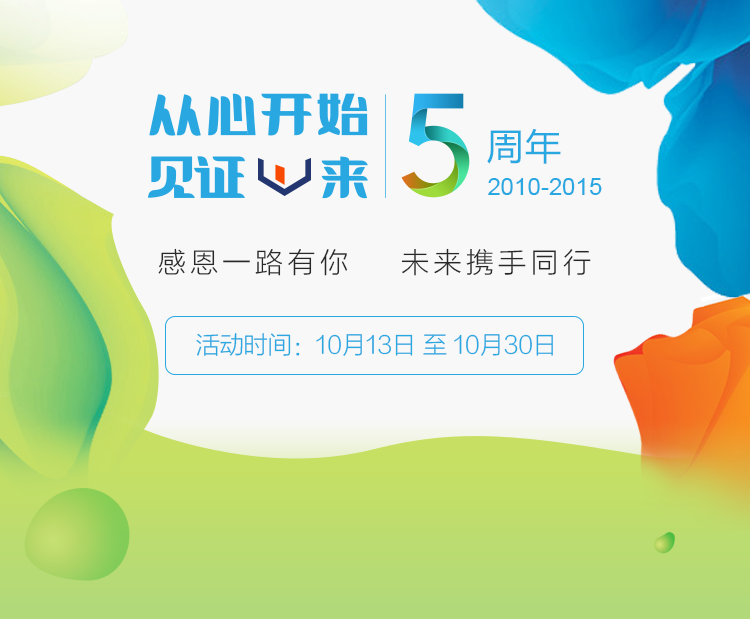
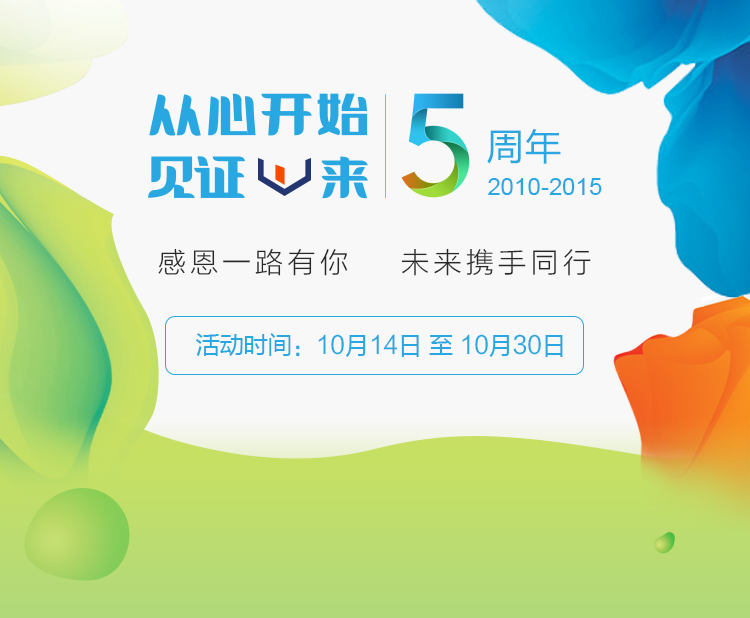
PC端优化第五版

diff --git a/huodong/widget/award-card/tpls/check-list.js b/huodong/widget/award-card/tpls/check-list.js
@@ -3,26 +3,40 @@
  * @return {[type]} [description]
  */
 module.exports = function (){
-  return '<div class="modal_header"></div>'+
-    '<span class="btn-close btn-close-pos"></span>'+
-    '<h3>我的奖品</h3>'+
-    '<div class="suc_wrap" id="suc_wrap">'+
-      '<% for (var i = 0; i < data.length; i++) { %>' +
-        '<% if(data[i].luckPackage && data[i].luckPackage.value.length){ %>' +
-          '<h5 style="color: #fff;font-size: 26px;margin: 10px 0;">心意礼包</h5>' +
-          '<% for (var j = 0; j < data[i].luckPackage.value.length; j++) { %>' +
-            '<div class="gift_wrap">'+
-            '<h3><%= data[i].luckPackage.value[j].ticketName %></h3>'+
-            '<div class="ptag_wrap"><span>兑换码：<strong><%= data[i].luckPackage.value[j].ticketCode %></strong></span>'+
-            '</div></div>'+
-          '<% } %>' +
-        '<% } else { %>' +
-          '<div class="gift_wrap">'+
-          '<h3><%= data[i].ticketName || "" %></h3>'+
-          '<div class="ptag_wrap"><span>兑换码：<strong><%= data[i].ticketCode || "" %></strong></span>'+
-          '</div></div>'+
-        '<% } %>' +
-      '<% } %>'+
-    '</div>'+
-    '<div class="modal_footer"></div>';
+  return  '<div class="modal_header"></div>'+
+          '<span class="btn-close btn-close-pos"></span>'+
+          '<h3>我的奖品</h3>'+
+          '<div class="suc_wrap" id="suc_wrap">'+
+            '<% for (var i = 0; i < data.length; i++) { %>' +
+              '<% if(data[i].luckPackage && data[i].luckPackage.value.length){ %>' +
+                '<h5 style="color: #fff;font-size: 26px;margin: 10px 0;">心意礼包</h5>' +
+                '<% for (var j = 0; j < data[i].luckPackage.value.length; j++) { %>' +
+                  '<div class="gift_wrap">'+
+                    '<h3><%= data[i].luckPackage.value[j].ticketName %></h3>'+
+                    '<div class="ptag_wrap">' +
+                      '<% if(data[i].luckPackage.value[j].ticketCode && data[i].luckPackage.value[j].ticketUrl){ %>' +
+                        '<span>兑换码：<strong><%= data[i].luckPackage.value[j].ticketCode  %><br></strong></span>' +
+                        '<span>使用地址：<a href="<%= data[i].luckPackage.value[j].ticketUrl %>" target="_blank"><%= data[i].luckPackage.value[j].ticketUrl %></a></span>' +
+                      '<% } else { %>' +
+                          '<span><strong><%= data[i].luckPackage.value[j].ticketName %>(已发到个人账户)</strong></span>' +
+                      '<% } %>' +
+                    '</div>' +
+                  '</div>'+
+                '<% } %>' +
+              '<% } else { %>' +
+                '<div class="gift_wrap">'+
+                  '<h3><%= data[i].ticketName %></h3>'+
+                  '<div class="ptag_wrap">' +
+                    '<% if(data[i].ticketCode && data[i].ticketUrl){ %>' +
+                      '<span>兑换码：<strong><%= data[i].ticketCode  %><br></strong></span>' +
+                      '<span>使用地址：<a href="<%= data[i].ticketUrl %>" target="_blank"><%= data[i].ticketUrl %></a></span>' +
+                    '<% } else { %>' +
+                        '<span><strong><%= data[i].ticketName %>(已发到个人账户)</strong></span>' +
+                    '<% } %>' +
+                  '</div>' +
+                '</div>'+
+              '<% } %>'+
+            '<% } %>'+
+          '</div>'+
+          '<div class="modal_footer"></div>';
 };

diff --git a/huodong/widget/raffle/raffle.js b/huodong/widget/raffle/raffle.js
@@ -46,27 +46,31 @@ var raffle = {
       var el = $('.widget-raffle .gift');
       var title = $('.widget-raffle .title-close');
 
+      var goldImage = __uri("./assets/baoxiang_03.png"),
+          diamondImage = __uri("./assets/baoxiang_05.png"),
+          otherImage = __uri("./assets/baoxiang_01.png");
+
+      // update image url
       if(res && res.data && res.errorCode == 0) {
         var boxCode = res.data.boxCode;
         $('#cash').text(res.data.amount);
 
         if(boxCode == 'goldbox'){
           title.text('金宝箱');
-          el.css({"background-image": "url(/static/huodong/widget/raffle/assets/baoxiang_03.png)"});
+          el.css({"background-image": "url("  + goldImage + ")"});
         }else if(boxCode == 'diamondbox'){
           title.text('钻石宝箱');
-          el.css({"background-image": "url(/static/huodong/widget/raffle/assets/baoxiang_05.png)"});
+          el.css({"background-image": "url(" + diamondImage +  ")"});
         }else {
           title.text('银宝箱');
-          el.css({"background-image": "url(/static/huodong/widget/raffle/assets/baoxiang_01.png)"});
+          el.css({"background-image": "url(" + otherImage + ")"});
         }
       }else {
         title.text('银宝箱');
-        el.css({"background-image": "url(/static/huodong/widget/raffle/assets/baoxiang_01.png)"});
+        el.css({"background-image": "url(" + otherImage + ")"});
       }
+
     });
-
-
   },
 
   eventHandle: function (){
@@ -151,10 +155,10 @@ var raffle = {
               });
               break;
             case 4:
-              modal = show( template(tpl_raffle_tips)({"tip": "您今天打开过宝箱~<br>明天再来吧"}) );
+              modal = show( template(tpl_raffle_tips)({"tip": "您已经打开过宝箱~<br>明天再来吧"}) );
               break;
             case 5:
-              modal = show( template(tpl_raffle_tips)({"tip": "您今天已经中过大奖啦~<br>把机会留给其他朋友吧"}) );
+              modal = show( template(tpl_raffle_tips)({"tip": "您已经中过大奖啦~<br>把机会留给其他朋友吧"}) );
               break;
             case 6:
               modal = show( template(tpl_raffle_tips)({"tip": "可以抽奖"}) );

diff --git a/huodong/page/anniversary/index-web/index-web.less b/huodong/page/anniversary/index-web/index-web.less
@@ -15,7 +15,6 @@
     // height: 450px;
     height: 434px;
     background-repeat: no-repeat; 
-    // background-size: 100% 100%;
     background-size: 100% 100%;
   }
   .section_01 {
@@ -23,21 +22,18 @@
   }
   .section_02 {
     background-image: url(./assets/index-bg_02.png);
-    // margin-top: 240px;
   }
   .section_03 {
     background-image: url(./assets/index-bg_03.png);
   }
   .section_04 {
-    // background-image: url(./assets/index-bg_04.png);
     background-image: url(./assets/index_bg_05.png);
         height: inherit;
     margin-bottom: -30px;
   }
   
   .section_05 {
-    // background-image: url(./assets/index-bg_05.png);
-    background-image: url(./assets/index_bg_06.png);
+    background-image: url(./assets/index_new_06.png);
     .tips {
       text-align: center;
       color: #fff;
@@ -55,18 +51,16 @@
       font-size: 38px;
     }
     .title-close {
-      font-size: 42px;
-      line-height: 0;
-      font-weight: normal;
+      font-size: 38px;
       color: #fff;
     }
   }
   .section_06 {
-    background-image: url(./assets/index-bg_06.png);
+    background-image: url(./assets/index_new_07.png);
     height: 450px;
   }
   .section_07 {
-    background-image: url(./assets/index-bg_07.png)
+    background-image: url(./assets/index_new_08.png);
   }
   .section_08 {
     background-image: url(./assets/index_bg_09.png);
@@ -110,6 +104,9 @@
   .raffle_wrap {
     text-align: center;
     padding-top: 180px;
+    position: relative;
+    // background: url(./assets/circle.png) left center no-repeat;
+    // background-size: 100%;
   }
   .baoxiang_msg {
     padding-top: 200px;

diff --git a/index-app/components/card/card.js b/index-app/components/card/card.js
@@ -122,8 +122,17 @@ define([
       $('#vertical').on('click', 'span', function( e ){
         var target = $(this);
         var position = $(this).data('position');
+        var cardStatus = $(this).data('status');
 
-        // ajax.get('/five_annual/lottery_card.json', {"version": "", "position": position}, function(res){
+        // 如果卡牌被翻过就弹框提示
+        // 如果卡牌第一次翻，前端记录下翻过的状态
+        if( cardStatus ) {
+          modal = show( template(tpl_card_tips)({"tips": "这张卡牌已被您翻过<br>去翻其他的卡牌吧"}) );
+          return;
+        }else {
+          $(this).data('status', 'true');
+        }
+      
         ajax.get('/five_annual/lottery_card.json', {"version": "", "position": position}, function(res){
             var data = res.data;
             var code = res.status;
@@ -159,7 +168,7 @@ define([
                   modal = show( template(tpl_card_tips)({"tips": "您已经中过奖<br>感谢您的关注"}) );
                   break;
                 case 4:
-                  modal = show( template(tpl_card_tips)({"tips": "您今天抽过奖<br>明天再来吧"}) );
+                  modal = show( template(tpl_card_tips)({"tips": "您今天牌翻的次数已用尽!<br>明天再来试试"}) );
                   break;
                 case 3:
                   // 还需要根据lotteryIndex字段判断

diff --git a/huodong/widget/card/card.js b/huodong/widget/card/card.js
@@ -116,6 +116,16 @@ var card = {
     $('#vertical').on('click', 'span', function( e ){
       var target = $(this);
       var position = $(this).data('position');
+      var cardStatus = $(this).data('status');
+
+      // 如果卡牌被翻过就弹框提示
+      // 如果卡牌第一次翻，前端记录下翻过的状态
+      if( cardStatus ) {
+        modal = show( template(tpl_card_tips)({"tips": "这张卡牌已被您翻过<br>去翻其他的卡牌吧"}) );
+        return;
+      }else {
+        $(this).data('status', 'true');
+      }
 
       ajax.get('/event/eventLottery!turnCardLottery.action?position=' + position, {}, function(res){
           var data = res.data;
@@ -146,7 +156,7 @@ var card = {
                 // 还需要根据lotteryIndex字段判断
                 // 继续判断获取的是红包、优惠券、幸运文字三种情况
                 // lotteryIndex字段含义：
-                // 0:心意礼包; 1:兑换券; 2:红包; 3:"心"字; 4:其它文字
+                // 1:兑换券; 2:红包; 3:"心"字; 4:其它文字
                 if ( lotteryIndex == 3 || lotteryIndex == 4 ) {
                   modal = show( template(tpl_card_word)({"word": lotteryName}) );
                   target.find('.info').html(' ').append('<h3 class="word"><i>' + lotteryName + '</i></h3>');

diff --git a/huodong/widget/word/tpls/exchange-success.js b/huodong/widget/word/tpls/exchange-success.js
@@ -9,15 +9,17 @@ module.exports = function (){
     '<div class="suc_wrap" id="suc_wrap">'+
     '<% for (var i = 0; i < data.length; i++) { %>' +
       '<div class="gift_wrap">'+
-      '<h3><%= data[i].ticketName || "" %></h3>'+
-      '<div class="ptag_wrap">' +
-        '<% if(data[i].ticketCode){ %>' +
-          '<span>兑换码：<strong><%= data[i].ticketCode || "" %></strong></span>'+
-        '<% } else { %>' +
-            '<span><strong><%= data[i].ticketName %>(已发到个人账户)</strong></span>' +
-        '<% } %>' +
-      '</div></div>'+
+        '<h3><%= data[i].ticketName %></h3>'+
+        '<div class="ptag_wrap">' +
+          '<% if(data[i].ticketCode && data[i].ticketUrl){ %>' +
+            '<span>兑换码：<strong><%= data[i].ticketCode  %><br></strong></span>' +
+            '<span>使用地址：<a href="<%= data[i].ticketUrl %>" target="_blank"><%= data[i].ticketUrl %></a></span>' +
+          '<% } else { %>' +
+              '<span><strong><%= data[i].ticketName %>(已发到个人账户)</strong></span>' +
+          '<% } %>' +
+        '</div>' +
+      '</div>'+
     '<% } %>'+
     '</div>'+
-    '<div class="modal_footer"></div>'
+    '<div class="modal_footer"></div>';
 };

diff --git a/huodong/widget/raffle/raffle.less b/huodong/widget/raffle/raffle.less
@@ -1,13 +1,21 @@
+.raffle-circle {
+  width: 100%;
+  height: 863px;
+  background: url(./assets/circle.png) left center no-repeat;
+  background-size: 100%;
+  position: absolute;
+  top: -30px;
+}
 .open-has{
   position: relative;z-index: 2;
   height:450px;
   width: 320px;
-  margin: -52px auto;
+  margin: 160px auto;
   h4{
     color: #fff;
     font-size: 46px;
     text-align: center;
-    padding-top: 100px;
+    padding-top: 80px;
   }
   .title-close{
     opacity: 1;
@@ -72,14 +80,13 @@
 
 
 .mod-chest .chest-close .gift{
-  width: 270px;
-  height: 250px;
-  background-repeat: no-repeat;
-  // background:url(./assets/baoxiang_01.png) no-repeat 0px 0px;
-  background-size: 100%;
-  position: absolute;
-  left: 26px;
-  top: 36px;
+    width: 285px;
+    height: 260px;
+    background-repeat: no-repeat;
+    background-size: 100%;
+    position: absolute;
+    left: 22px;
+    top: 10px;
 }
 
 .mod-chest .chest-open{

diff --git a/huodong/widget/card/tpls/card-gift.js b/huodong/widget/card/tpls/card-gift.js
@@ -10,8 +10,9 @@ module.exports = function (){
     '<div class="gift_wrap">',
         '<h3><%= data.ticketName %></h3>',
         '<div class="ptag_wrap">',
-          '<% if(data.ticketCode){ %>',
-            '<span>兑换码：<br><strong><%= data.ticketCode  %></strong></span>',
+          '<% if(data.ticketCode && data.ticketUrl){ %>',
+            '<span>兑换码：<strong><%= data.ticketCode  %><br></strong></span>',
+            '<span>使用地址：<a href="<%= data.ticketUrl %>" target="_blank"><%= data.ticketUrl %></a></span>',
           '<% } else { %>',
               '<span><strong><%= data.ticketName %>(已发到个人账户)</strong></span>',
           '<% } %>',

diff --git a/index-app/components/word/word.js b/index-app/components/word/word.js
@@ -7,8 +7,9 @@ define([
   'modal',
   'tpl_card_login',
   'tpl_card_verify',
-  'tpl_exchange_success'
-], function ($, tpl, css, ajax, template, Modal, tpl_card_login, tpl_card_verify, tpl_exchange_success){
+  'tpl_exchange_success',
+  'tpl_card_tips'
+], function ($, tpl, css, ajax, template, Modal, tpl_card_login, tpl_card_verify, tpl_exchange_success, tpl_card_tips){
   
   var show = initModal();
   var modal;

diff --git a/huodong/widget/ui/modal/modal.css b/huodong/widget/ui/modal/modal.css
@@ -72,7 +72,7 @@
   font-size: 15px;
   line-height: 36px;
 }
-.ui-modal .gift_wrap .ptag_wrap span strong {
+.ui-modal .gift_wrap .ptag_wrap span a,.ui-modal .gift_wrap .ptag_wrap span strong {
   color: #fff;
 }
 .ui-modal .word_wrap span{

diff --git a/huodong/README.md b/huodong/README.md
@@ -1,5 +1,33 @@
 # 工作日志
 
+## 2015-10-09 
+
+> TODO LIST
+
+### PC端
+1. 卡牌如果翻过一次就不能在再翻了，弹窗提示已经翻过:
+  - 什么字段标记这个这个卡牌已经翻过
+  - 前端操作DOM记录状态
+2. 如果5张卡牌都翻过就提示--今天次数已经用完
+  - 什么字段标记今天五张牌都翻完了
+  - 具体的提示文案
+  - lotteryIndex字段值为4的时候
+3. finished: "您今天中过大奖"文案修改：去掉今天两个字
+4. finished: 宝箱展示处的大圆优化
+5. finished：PC的raffle.js代码更新
+6. finished: 首页大图需要替换成新日期
+7. 弹框出现代金券时需要新增**使用地址**
+  - 涉及到三个接口
+  - 需要判断ticketUrl和ticketCode均为空时才展示红包
+  - 会有多处模板修改
+
+### 移动端
+1. finished: 首页大图替换成新日期
+2. 弹框出现代金券时需要新增**使用地址**
+  - 涉及到三个接口
+  - 需要判断ticketUrl和ticketCode均为空时才展示红包
+  - 会有多处模板修改
+
 ## 2015-10-08
 
 > PC端TODO LIST
@@ -7,7 +35,7 @@
 - 宝箱圆形展示优化
 - finished: errorCode为1002的处理，卡牌和宝箱处（不需处理）
 - finished: 抽中文字，关闭文字提示窗后，【集幸运文字  得心意礼包】中的文字没有变化，需要刷新页面
-- 抽中五元红包的展示问题
+- finished: 抽中五元红包的展示问题
     a)返回时页面没有任何提示信息;
     b)我的奖品 -> 5元红包这一行记录应该没有兑换码(应该是文字：已发到个人帐户，可以找产品确认) 信息;
     c)兑换成功：提示窗 -> 5元红包这一行记录同样没有兑换码;
